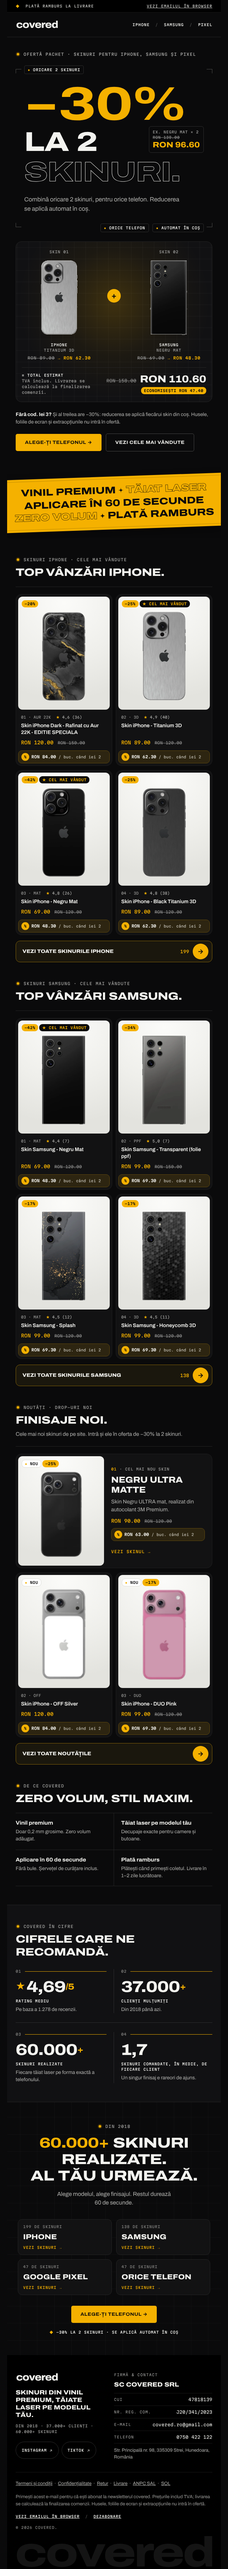
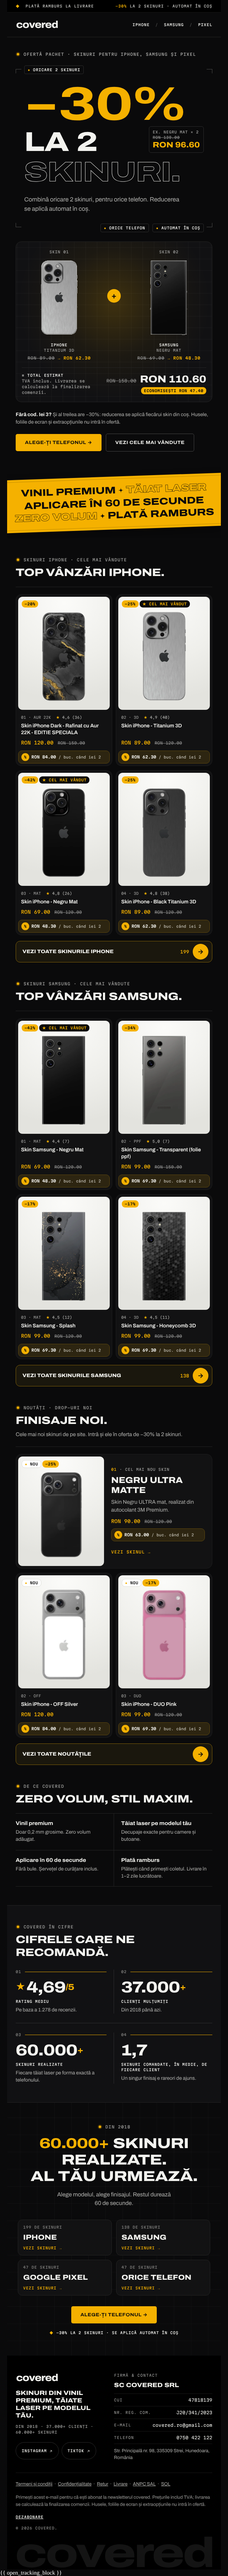
Adapt email for Shopify Email custom code: open_tracking_block, unsubscribe_url, drop view-in-browser link
Claude-Session: https://claude.ai/code/session_01JydsTHa5CNNVJPHeRAJuMk

diff --git a/drafts/build-final.js b/drafts/build-final.js
@@ -1,4 +1,5 @@
-// Builds covered-email-30-la-2-skinuri.html (repo root) — final "−30% la 2 skinuri" email.
+// Builds covered-email-30-la-2-skinuri.html (repo root) for Shopify Email's custom-code editor
+// (needs {{ open_tracking_block }} and {{ unsubscribe_url }}; Shopify has no view-in-browser variable, so that link is omitted) — final "−30% la 2 skinuri" email.
 // Base: variant A (Skin Lab / spec sheet) + judge must_fix + grafts from B and C (research/judgments.json).
 // Prices, titles, ratings: verified in the covered Shopify admin on 2026-10-07 (see README.md).
 const fs = require('fs');
@@ -105,7 +106,7 @@ const pad = '&#847;&zwnj;&nbsp;'.repeat(22);
 const topbar = `<tr><td bgcolor="#000000" class="px" style="background-color:#000000;padding:10px 24px;border-bottom:1px solid #181818;${M}font-size:10px;line-height:14px;font-weight:500;letter-spacing:.1em;text-transform:uppercase;">
 <table ${T} width="100%"><tr>
 <td class="hide" style="color:#C2C2BF;white-space:nowrap;"><span style="color:${Y};">&#9670;</span>&nbsp; Plată ramburs la livrare</td>
-<td align="right" class="tc" style="white-space:nowrap;"><a href="{{view_in_browser_url}}" style="color:#C2C2BF;text-decoration:underline;">Vezi emailul în browser</a></td>
+<td align="right" class="tc" style="white-space:nowrap;color:#C2C2BF;"><span style="color:${Y};">&minus;30%</span> la 2 skinuri &middot; automat în coș</td>
 </tr></table></td></tr>`;
 
 const navA = (l, p) => `<a href="${u(p, 'header')}" style="color:${TX};text-decoration:none;">${l}</a>`;
@@ -276,7 +277,7 @@ ${gapDiv(32)}
 ${rule('#1A1A1A')}
 <div style="padding-top:20px;font-size:13px;line-height:22px;color:${MU};">${fl('Termeni și condiții', '/pages/termeni-si-conditii')} &nbsp;·&nbsp; ${fl('Confidențialitate', '/pages/politica-de-confidentialitate')} &nbsp;·&nbsp; ${fl('Retur', '/policies/refund-policy')} &nbsp;·&nbsp; ${fl('Livrare', '/policies/shipping-policy')} &nbsp;·&nbsp; ${fl('ANPC SAL', 'https://anpc.ro/ce-este-sal/')} &nbsp;·&nbsp; ${fl('SOL', 'https://ec.europa.eu/consumers/odr')}</div>
 <div style="padding-top:16px;font-size:13px;line-height:20px;color:${LB};">Primești acest e-mail pentru că ești abonat la newsletterul covered. Prețurile includ TVA; livrarea se calculează la finalizarea comenzii. Husele, foliile de ecran și extraopțiunile nu intră în ofertă.</div>
-<div style="padding-top:16px;${LBL}line-height:18px;text-transform:uppercase;"><a href="{{view_in_browser_url}}" style="color:${TX};text-decoration:underline;">Vezi emailul în browser</a><span style="color:#50504F;"> &nbsp;/&nbsp; </span><a href="{{unsubscribe_url}}" style="color:${TX};text-decoration:underline;">Dezabonare</a></div>
+<div style="padding-top:16px;${LBL}line-height:18px;text-transform:uppercase;"><a href="{{ unsubscribe_url }}" style="color:${TX};text-decoration:underline;">Dezabonare</a></div>
 <div style="padding-top:16px;${LBL}color:#7F7F7D;">&copy; 2026 COVERED.</div>
 </td></tr>
 <tr><td bgcolor="#000000" align="center" aria-hidden="true" style="background-color:#000000;padding:18px 0 0 0;mso-hide:all;"><div class="wm" style="${D}text-transform:none;font-size:118px;line-height:92px;font-stretch:125%;letter-spacing:-.045em;color:#141414;white-space:nowrap;overflow:hidden;">covered</div></td></tr>`;
@@ -373,6 +374,7 @@ ${footer}
 </td></tr>
 </table>
 </div>
+{{ open_tracking_block }}
 </body>
 </html>
 `;

diff --git a/covered-email-30-la-2-skinuri.html b/covered-email-30-la-2-skinuri.html
@@ -67,7 +67,7 @@ u+#body a{color:inherit;text-decoration:none}
 <table role="presentation" cellpadding="0" cellspacing="0" border="0" width="100%">
 <tr>
 <td class="hide" style="color:#C2C2BF;white-space:nowrap;"><span style="color:#F5B100;">&#9670;</span>&nbsp; Plată ramburs la livrare</td>
-<td align="right" class="tc" style="white-space:nowrap;"><a href="{{view_in_browser_url}}" style="color:#C2C2BF;text-decoration:underline;">Vezi emailul în browser</a></td>
+<td align="right" class="tc" style="white-space:nowrap;color:#C2C2BF;"><span style="color:#F5B100;">&minus;30%</span> la 2 skinuri &middot; automat în coș</td>
 </tr>
 </table>
 </td>
@@ -571,7 +571,7 @@ u+#body a{color:inherit;text-decoration:none}
 &nbsp;·&nbsp; <a href="https://anpc.ro/ce-este-sal/" style="color:#B2B2AF;text-decoration:underline;">ANPC SAL</a>
 &nbsp;·&nbsp; <a href="https://ec.europa.eu/consumers/odr" style="color:#B2B2AF;text-decoration:underline;">SOL</a></div>
 <div style="padding-top:16px;font-size:13px;line-height:20px;color:#9A9A98;">Primești acest e-mail pentru că ești abonat la newsletterul covered. Prețurile includ TVA; livrarea se calculează la finalizarea comenzii. Husele, foliile de ecran și extraopțiunile nu intră în ofertă.</div>
-<div style="padding-top:16px;font-family:'Martian Mono',Menlo,Consolas,monospace;font-size:10px;line-height:12px;font-weight:500;letter-spacing:.08em;line-height:18px;text-transform:uppercase;"><a href="{{view_in_browser_url}}" style="color:#F3F3EF;text-decoration:underline;">Vezi emailul în browser</a><span style="color:#50504F;"> &nbsp;/&nbsp; </span><a href="{{unsubscribe_url}}" style="color:#F3F3EF;text-decoration:underline;">Dezabonare</a></div>
+<div style="padding-top:16px;font-family:'Martian Mono',Menlo,Consolas,monospace;font-size:10px;line-height:12px;font-weight:500;letter-spacing:.08em;line-height:18px;text-transform:uppercase;"><a href="{{ unsubscribe_url }}" style="color:#F3F3EF;text-decoration:underline;">Dezabonare</a></div>
 <div style="padding-top:16px;font-family:'Martian Mono',Menlo,Consolas,monospace;font-size:10px;line-height:12px;font-weight:500;letter-spacing:.08em;color:#7F7F7D;">&copy; 2026 COVERED.</div></td>
 </tr>
 <tr><td bgcolor="#000000" align="center" aria-hidden="true" style="background-color:#000000;padding:18px 0 0 0;mso-hide:all;"><div class="wm" style="font-family:Archivo,'Arial Black','Helvetica Neue',Arial,sans-serif;font-weight:800;text-transform:uppercase;text-transform:none;font-size:118px;line-height:92px;font-stretch:125%;letter-spacing:-.045em;color:#141414;white-space:nowrap;overflow:hidden;">covered</div></td>
@@ -583,4 +583,6 @@ u+#body a{color:inherit;text-decoration:none}
 <![endif]--></td>
 </tr>
 </table>
-</div></body></html>
+</div>
+{{ open_tracking_block }}
+</body></html>

diff --git a/HANDOFF.md b/HANDOFF.md
@@ -25,7 +25,7 @@ Fonts: Archivo (800 uppercase, tight tracking, wide axis for display) + mono for
 
 ## Email rules (non-negotiable)
 - Romanian, tutoiere, diacritics ș ț with comma-below; reuse the site's phrasing (voice library in `bundle.json` → `offer_and_voice.voice`). No invented prices, stats, deadlines, codes or reviews.
-- Sections: preheader · header/logo · hero with the offer + mechanics · TOP VÂNZĂRI iPhone (4–6) · TOP VÂNZĂRI Samsung (4–6) · NOUTĂȚI (3–6) · USP strip + social proof (4,69/5 · 1.278 de recenzii, 37.000+ clienți, 60.000+ skinuri) · closing CTA · footer (covered.ro@gmail.com, 0750 422 122, legal, socials, `{{view_in_browser_url}}`, `{{unsubscribe_url}}`).
+- Sections: preheader · header/logo · hero with the offer + mechanics · TOP VÂNZĂRI iPhone (4–6) · TOP VÂNZĂRI Samsung (4–6) · NOUTĂȚI (3–6) · USP strip + social proof (4,69/5 · 1.278 de recenzii, 37.000+ clienți, 60.000+ skinuri) · closing CTA · footer (covered.ro@gmail.com, 0750 422 122, legal, socials, `{{ unsubscribe_url }}` + `{{ open_tracking_block }}` (Shopify Email)).
 - Real product image/title/price (+ struck compare-at) and URL from `bundle.json`; every covered.ro link gets `utm_source=email&utm_medium=newsletter&utm_campaign=30-la-2-skinuri&utm_content=<section>`.
 - 600px table layout, role="presentation", inline styles, bgcolor attrs on dark containers, no flex/grid/position/CSS vars/JS/SVG; `<style>` only for media queries, fonts, outline text (with solid inline fallback); MSO conditionals + bulletproof buttons; images absolute https, width attr, display:block, Romanian alt; responsive at ≤620px; **file < 90 KB** (Gmail clips at 102 KB); contrast ≥ 4.5:1.
 - Must still look right when Gmail strips `<style>` (judges flagged class-only pills/borders in A — inline them).
